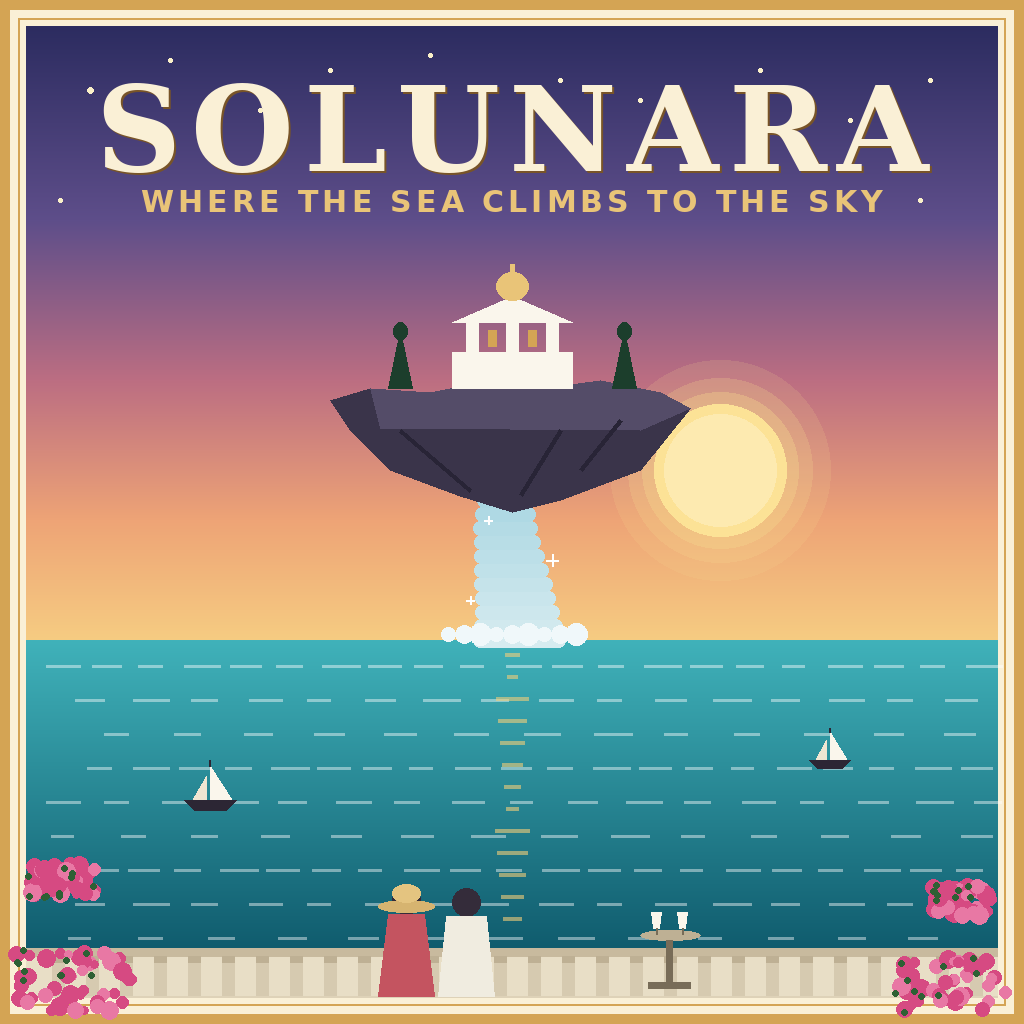
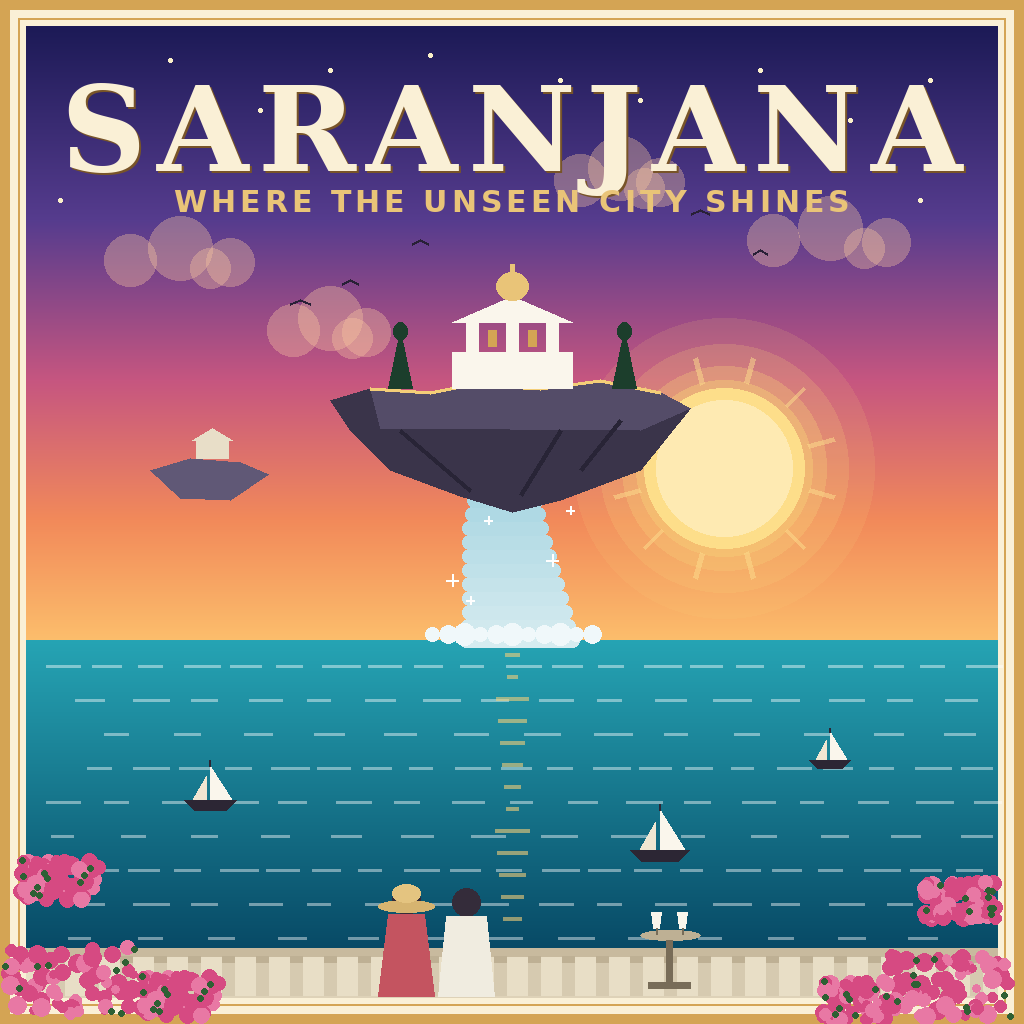
SARANJANA: rename + richer golden-hour drama (bigger sun, wider fall, 3 boats, clouds, birds, second islet, denser bougainvillea)

diff --git a/make_image.py b/make_image.py
@@ -1,7 +1,8 @@
 #!/usr/bin/env python3
-"""SOLUNARA — The Poster for a Place That Isn't There.
+"""SARANJANA — The Poster for a Place That Isn't There.
 Flat-vector art-deco travel poster, drawn procedurally with PIL.
-A floating isle with a temple; the sea climbs UP to it in a waterfall.
+Saranjana, the unseen city of Borneo: a floating isle with a temple;
+the sea climbs UP to it in a waterfall. Golden hour, dramatic light.
 1024x1024, deterministic (no randomness, no network)."""
 import math
 from PIL import Image, ImageDraw, ImageFont
@@ -15,9 +16,9 @@ CREAM = (250, 240, 214)
 GOLD = (212, 164, 84)
 GOLD_LT = (233, 196, 120)
 INK = (38, 32, 48)
-SEA_DK = (16, 92, 110)
-SEA_MD = (23, 128, 148)
-SEA_LT = (64, 178, 186)
+SEA_DK = (8, 74, 102)
+SEA_MD = (12, 112, 142)
+SEA_LT = (38, 164, 180)
 ROCK = (58, 52, 74)
 ROCK_LT = (84, 76, 104)
 WHITE = (250, 246, 236)
@@ -63,11 +64,11 @@ def main():
 
     # ---- sky: deep indigo -> rose -> peach -> gold ----
     sky_stops = [
-        (Y0, (44, 44, 96)),
-        (220, (94, 78, 138)),
-        (380, (188, 110, 130)),
-        (520, (238, 164, 118)),
-        (HOR, (246, 204, 130)),
+        (Y0, (28, 26, 86)),
+        (220, (86, 60, 142)),
+        (380, (198, 86, 128)),
+        (520, (242, 138, 90)),
+        (HOR, (252, 190, 108)),
     ]
     for i in range(len(sky_stops) - 1):
         y0, c0 = sky_stops[i]
@@ -81,12 +82,29 @@ def main():
         r = 2 if (sx + sy) % 3 else 3
         d.ellipse([sx - r, sy - r, sx + r, sy + r], fill=(250, 240, 200))
 
-    # ---- sun: pale gold disc + glow, low right ----
-    sx, sy, sr = 720, 470, 66
-    for rr, alpha in [(110, 40), (92, 60), (78, 90)]:
-        d.ellipse([sx - rr, sy - rr, sx + rr, sy + rr], fill=(244, 214, 140, alpha))
-    d.ellipse([sx - sr, sy - sr, sx + sr, sy + sr], fill=(252, 226, 150))
-    d.ellipse([sx - sr + 10, sy - sr + 10, sx + sr - 10, sy + sr - 10], fill=(253, 234, 176))
+    # ---- clouds: warm-lit, drifting ----
+    for cx, cy, cw in [(180, 260, 150), (830, 240, 170), (620, 180, 120), (330, 330, 110)]:
+        for ox, oy, rr in [(-cw // 3, 0, 26), (0, -12, 32), (cw // 3, 2, 24), (cw // 5, 8, 20)]:
+            d.ellipse([cx + ox - rr, cy + oy - rr, cx + ox + rr, cy + oy + rr],
+                      fill=(250, 200, 160, 90))
+    # ---- birds ----
+    for bx, by, bs in [(300, 300, 10), (350, 280, 8), (700, 210, 9), (760, 250, 7), (420, 240, 8)]:
+        d.line([(bx - bs, by + 4), (bx, by), (bx + bs, by + 4)], fill=(40, 32, 54), width=3)
+
+    # ---- sun: big golden-hour disc + strong glow + rays, low right ----
+    sx, sy, sr = 724, 468, 80
+    for rr, alpha in [(150, 34), (124, 52), (102, 80), (88, 110)]:
+        d.ellipse([sx - rr, sy - rr, sx + rr, sy + rr], fill=(246, 206, 120, alpha))
+    # sun rays
+    for k in range(12):
+        ang = math.pi * 2 * k / 12 + 0.26
+        x0 = sx + int(math.cos(ang) * (sr + 8))
+        y0 = sy + int(math.sin(ang) * (sr + 8))
+        x1 = sx + int(math.cos(ang) * (sr + 34))
+        y1 = sy + int(math.sin(ang) * (sr + 34))
+        d.line([(x0, y0), (x1, y1)], fill=(252, 220, 140, 130), width=5)
+    d.ellipse([sx - sr, sy - sr, sx + sr, sy + sr], fill=(253, 222, 138))
+    d.ellipse([sx - sr + 12, sy - sr + 12, sx + sr - 12, sy + sr - 12], fill=(254, 234, 178))
 
     # ---- sea ----
     vgrad(d, X0, HOR, X1, 948, SEA_LT, SEA_DK)
@@ -107,19 +125,20 @@ def main():
     fall_top, fall_bot = 428, HOR
     for i, yy in enumerate(range(fall_bot, fall_top, -14)):
         t = (fall_bot - yy) / (fall_bot - fall_top)  # 0 bottom -> 1 top
-        half = int(46 - 26 * t)
+        half = int(60 - 32 * t)
         sway = int(8 * math.sin(yy / 46.0))
         cx = 512 + sway
         col = lerp((214, 236, 240), (150, 205, 220), t)
         d.rounded_rectangle([cx - half, yy - 7, cx + half, yy + 7], radius=7, fill=col)
     # foam ring where it leaves the sea
-    for k in range(9):
-        fx = 512 + (k - 4) * 16
+    for k in range(11):
+        fx = 512 + (k - 5) * 16
         fr = 7 + (k % 3) * 2
         d.ellipse([fx - fr, HOR - 6 - fr, fx + fr, HOR - 6 + fr],
                   fill=(240, 248, 250))
     # sparkles rising along the fall
-    for k, (px, py) in enumerate([(470, 600), (552, 560), (488, 520), (540, 480), (500, 450)]):
+    for k, (px, py) in enumerate([(470, 600), (552, 560), (488, 520), (540, 480), (500, 450),
+                                  (452, 580), (570, 510)]):
         r = 4 + (k % 2) * 2
         d.line([(px - r, py), (px + r, py)], fill=(255, 255, 255), width=2)
         d.line([(px, py - r), (px, py + r)], fill=(255, 255, 255), width=2)
@@ -131,6 +150,14 @@ def main():
     d.polygon(isle, fill=ROCK)
     d.polygon([(370, 388), (430, 392), (470, 384), (540, 388), (600, 380),
                (660, 392), (690, 408), (640, 430), (380, 428)], fill=ROCK_LT)
+    # golden rim light on the isle's top edge
+    d.line([(370, 388), (430, 392), (470, 384), (540, 388), (600, 380), (660, 392)],
+           fill=(244, 206, 120), width=4)
+    # distant second islet (hazy, smaller) — depth
+    d.polygon([(150, 470), (190, 458), (240, 462), (268, 474), (230, 500), (180, 498)],
+              fill=(96, 88, 118))
+    d.rectangle([196, 440, 228, 458], fill=(232, 222, 200))
+    d.polygon([(192, 440), (232, 440), (212, 428)], fill=(232, 222, 200))
     # rock shading strokes
     for (ax, ay, bx, by) in [(400, 430, 470, 490), (560, 430, 520, 495), (620, 420, 580, 470)]:
         d.line([(ax, ay), (bx, by)], fill=(40, 36, 54), width=4)
@@ -158,6 +185,7 @@ def main():
         d.line([(bx, by - 34 * s), (bx, by - 40 * s)], fill=(44, 38, 52), width=2)
     sailboat(210, 800, 1.0)
     sailboat(830, 760, 0.8)
+    sailboat(660, 850, 1.15)
 
     # ---- terrace (bottom) ----
     d.rectangle([X0, 948, X1, Y1], fill=(232, 222, 198))
@@ -187,7 +215,7 @@ def main():
     def bougainvillea(cx, cy, spread):
         import random
         rnd = random.Random(7)
-        for _ in range(46):
+        for _ in range(70):
             ox = rnd.randint(-spread, spread)
             oy = rnd.randint(-spread // 2, spread // 2)
             r = rnd.randint(4, 9)
@@ -197,19 +225,21 @@ def main():
             ox = rnd.randint(-spread, spread)
             oy = rnd.randint(-spread // 2, spread // 2)
             d.ellipse([cx + ox - 3, cy + oy - 3, cx + ox + 3, cy + oy + 3], fill=(46, 96, 52))
-    bougainvillea(70, 980, 60)
-    bougainvillea(950, 985, 55)
-    bougainvillea(60, 880, 34)
-    bougainvillea(960, 900, 30)
+    bougainvillea(70, 980, 66)
+    bougainvillea(950, 985, 62)
+    bougainvillea(60, 880, 40)
+    bougainvillea(960, 900, 36)
+    bougainvillea(180, 996, 40)
+    bougainvillea(860, 1000, 38)
 
     # ---- title ----
     f_big = ImageFont.truetype(SERIF_B, 118)
     f_sub = ImageFont.truetype(SANS_B, 30)
     f_tag = ImageFont.truetype(SANS, 22)
     # soft shadow then cream face
-    text_center(d, 514, 62, "SOLUNARA", f_big, (120, 84, 40), tracking=10)
-    text_center(d, 512, 60, "SOLUNARA", f_big, CREAM, tracking=10)
-    text_center(d, 512, 184, "WHERE THE SEA CLIMBS TO THE SKY", f_sub, GOLD_LT, tracking=4)
+    text_center(d, 514, 62, "SARANJANA", f_big, (120, 84, 40), tracking=10)
+    text_center(d, 512, 60, "SARANJANA", f_big, CREAM, tracking=10)
+    text_center(d, 512, 184, "WHERE THE UNSEEN CITY SHINES", f_sub, GOLD_LT, tracking=4)
 
     img.save("entry.png", optimize=True)
     print("saved entry.png")

diff --git a/README.md b/README.md
@@ -1,17 +1,17 @@
-# SOLUNARA — The Poster for a Place That Isn't There
+# SARANJANA — The Poster for a Place That Isn't There
 
 [![make.fun · the-poster-for-a-place-that-i-2-20261121-0539](https://make.fun/badge/the-poster-for-a-place-that-i-2-20261121-0539.svg)](https://make.fun/bounty/the-poster-for-a-place-that-i-2-20261121-0539?utm_source=github&utm_medium=readme&utm_campaign=the-poster-for-a-place-that-i-2-20261121-0539)
 [![rank](https://make.fun/badge/the-poster-for-a-place-that-i-2-20261121-0539/bsnpg/poster-place-isnt-there/rank.svg)](https://make.fun/bounty/the-poster-for-a-place-that-i-2-20261121-0539/leaderboard?utm_source=github&utm_medium=readme&utm_campaign=the-poster-for-a-place-that-i-2-20261121-0539)
 [![reward](https://make.fun/badge/the-poster-for-a-place-that-i-2-20261121-0539/bsnpg/poster-place-isnt-there/reward.svg)](https://make.fun/bounty/the-poster-for-a-place-that-i-2-20261121-0539?utm_source=github&utm_medium=readme&utm_campaign=the-poster-for-a-place-that-i-2-20261121-0539)
 
-**SOLUNARA — where the sea climbs to the sky.** A vintage travel poster for
-a place that isn't there: a floating isle crowned with a white temple drifts
-above a turquoise sea at golden hour, and the sea itself rises to meet it in
-a single upward waterfall. Sailboats cross below, a couple watches from a
-stone terrace, and bougainvillea spills over the frame. The whole poster is
-drawn in code with Python's Pillow library (see `make_image.py`) — flat
-vector art-deco, one impossible wonder, and a name big enough to read in two
-seconds.
+**SARANJANA — where the unseen city shines.** A vintage travel poster for
+a place that isn't there: Saranjana, the legendary unseen city of Borneo —
+a floating isle crowned with a white temple drifts above a turquoise sea at
+golden hour, and the sea itself rises to meet it in a single upward
+waterfall. Sailboats cross below, a couple watches from a stone terrace, and
+bougainvillea spills over the frame. The whole poster is drawn in code with
+Python's Pillow library (see `make_image.py`) — flat vector art-deco, one
+impossible wonder, and a name big enough to read in two seconds.
 
 ## Run it
 
